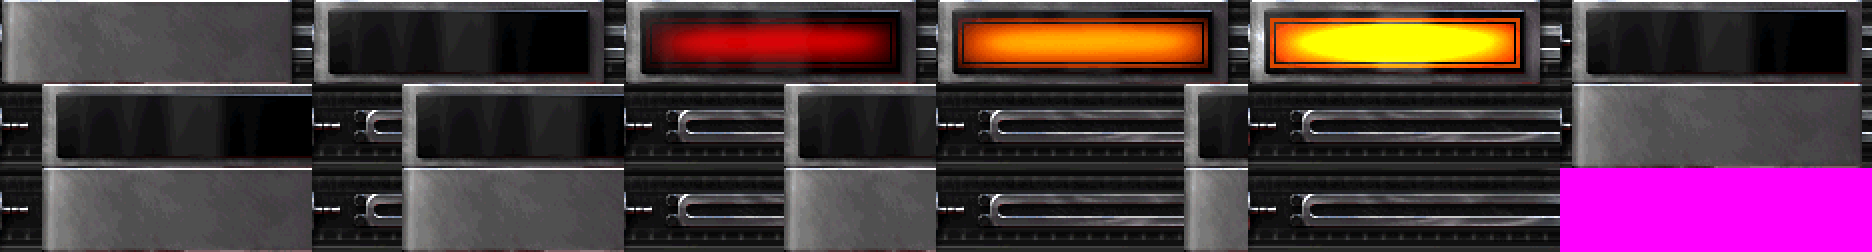
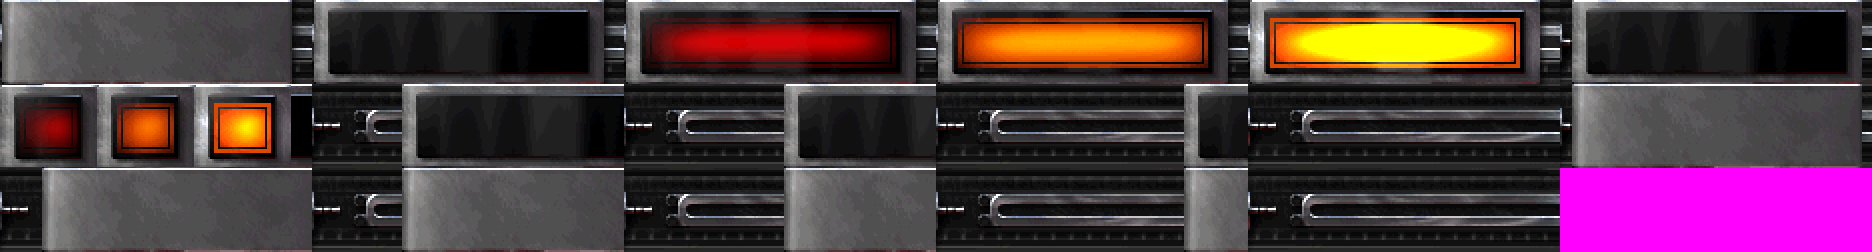
Added Options Interface

Changed region(s): [[0.0, 0.3333, 0.1549, 0.6667]]

diff --git a/Order_227/Motor2D/UserInterface.cpp b/Order_227/Motor2D/UserInterface.cpp
@@ -98,6 +98,8 @@ bool User_Interface::Start()
 	Unit_Panels_tex = myApp->tex->Load("ui/Unit_Costs_Panel.png");
 	InGame_Label_tex= myApp->tex->Load("ui/In_Game_Labels.png");
 	Buff_tex = myApp->tex->Load("ui/Buff_Texture.png");
+	Options_tex = myApp->tex->Load("ui/Options_Text.png");
+	Volume_Slides = myApp->tex->Load("ui/VolumeBars_Tex.png");
 
 	//Debug Elements
 	fpsText = CreateText({ 10, 10 }, "0", font_id::DEFAULT, { 255, 255, 0, 255 });
@@ -111,6 +113,12 @@ bool User_Interface::Start()
 	TempButtonRect[1] = { 626,0,290,84 };
 	TempButtonRect[2] = { 938,0,290,84 };
 	TempButtonRect[3] = {1250,0,290,84 };
+
+	SDL_Rect mini_TempButtonRect[4];
+	mini_TempButtonRect[0] = { 0,85,97,82 };
+	mini_TempButtonRect[1] = { 0,85,97,82 };
+	mini_TempButtonRect[2] = { 97,85,97,82 };
+	mini_TempButtonRect[3] = { 194,85,97,82 };
 
 	SDL_Rect Pause_Button[4];
 	Pause_Button[0] = { 0,0,168,42 };
@@ -194,6 +202,8 @@ bool User_Interface::Start()
 	pauseMenuPanel = CreateImage(fPoint(width / 2, height / 2-100), SDL_Rect({ 0,0,185,355 }), pauseMenuPanel_Tex,true);
 	ReturnMainMenu = CreateVoidBox(QuitGame, fPoint(width / 2, height / 2), Pause_Button, PauseButton_text, pauseMenuPanel);
 	ReturnMainMenu_Label = CreateText(fPoint(width / 2, height / 2), "EXIT", font_id::MOLOT,White,false,pauseMenuPanel);
+	Options_Pause_button = CreateVoidBox(OptionsOpen, fPoint(width / 2, height / 2.3), Pause_Button, PauseButton_text, pauseMenuPanel);
+	Options_Pause_Label = CreateText(fPoint(width / 2, height / 2.3), "Options", font_id::MOLOT, White, false, pauseMenuPanel);
 	pauseMenuPanel->Deactivate();
 	frameSelector = CreateImage(fPoint(width / 11, height - 140), SDL_Rect({ 0,0,134,38 }), selectorinGame_Tex);
 
@@ -247,14 +257,73 @@ bool User_Interface::Start()
 	StartGame_Button = CreateVoidBox(StartGame,fPoint(width/2,height/1.8),TempButtonRect,StartGame_text,nullptr,Screen_Type::SCREEN_MAINMENU);
 	StartGame_Label = CreateText(fPoint(width / 2, height / 1.8), "START GAME", font_id::MOLOT,White,false,StartGame_Button,1.0f,nullptr, Screen_Type::SCREEN_MAINMENU);
 
-	ExitGame_Button = CreateVoidBox(CloseGame, fPoint(width / 2, height / 1.2), TempButtonRect, StartGame_text, nullptr, Screen_Type::SCREEN_MAINMENU);
-	ExitGame_Label = CreateText(fPoint(width / 2, height / 1.2), "QUIT GAME", font_id::MOLOT, White, false, ExitGame_Button, 1.0f, nullptr, Screen_Type::SCREEN_MAINMENU);
+	ExitGame_Button = CreateVoidBox(CloseGame, fPoint(width / 2, height / 1.15), TempButtonRect, StartGame_text, nullptr, Screen_Type::SCREEN_MAINMENU);
+	ExitGame_Label = CreateText(fPoint(width / 2, height / 1.15), "QUIT GAME", font_id::MOLOT, White, false, ExitGame_Button, 1.0f, nullptr, Screen_Type::SCREEN_MAINMENU);
+
+	OptionsGame_Button = CreateVoidBox(OptionsOpen, fPoint(width / 2, height / 1.4), TempButtonRect, StartGame_text, nullptr, Screen_Type::SCREEN_MAINMENU);
+	OptionsGame_Label = CreateText(fPoint(width / 2, height / 1.4), "OPTIONS", font_id::MOLOT, White, false, OptionsGame_Button, 1.0f, nullptr, Screen_Type::SCREEN_MAINMENU);
 
 	Minimap_Display = new  MiniMap_UI(ui_type::NONE);
 
-	
+
 	AddElement(Minimap_Display);
 	InGame_Elements.push_back(Minimap_Display);
+
+
+	OptionsPanel = CreateImage(fPoint(width / 2, height / 2), SDL_Rect({ 0,0,906,657 }), Options_tex,false,nullptr,nullptr,Screen_Type::SCREEN_OPTIONS);
+
+	VolumeSFX_Slide = CreateImage(fPoint(width / 2, height / 2.2), SDL_Rect({ 0,0,796,80 }), Volume_Slides, false,OptionsPanel, nullptr, Screen_Type::SCREEN_OPTIONS);
+	VolumeMusic_Slide = CreateImage(fPoint(width / 2, height / 3.5), SDL_Rect({ 0,0,796,80 }), Volume_Slides, false, OptionsPanel, nullptr, Screen_Type::SCREEN_OPTIONS);
+	SetHotkeys_Button = CreateVoidBox(Hotkeys_Options, fPoint(width / 2, height / 1.5), TempButtonRect, StartGame_text, OptionsPanel, Screen_Type::SCREEN_OPTIONS);
+	SetHotkeys_Label = CreateText(fPoint(width / 2, height / 1.5), "CONTROLS", font_id::MOLOT, White, false, SetHotkeys_Button,1.0f, nullptr, Screen_Type::SCREEN_OPTIONS);
+
+	Hotkey_Conscript = CreateVoidBox(Hotkeys_Options, fPoint(width / 2.6, height / 3.5), mini_TempButtonRect, StartGame_text, nullptr, Screen_Type::SCREEN_OPTIONS);
+	Hotkey_Conscript_Label = CreateText(fPoint(width / 2.6, height / 3.5), "1", font_id::MOLOT, White, false, Hotkey_Conscript, 1.0f, nullptr, Screen_Type::SCREEN_OPTIONS);
+	Conscript_Label = CreateText(fPoint(width / 3.5, height / 3.5), "Create Consrcipt", font_id::MOLOT, White, false, Hotkey_Conscript, 0.7f, nullptr, Screen_Type::SCREEN_OPTIONS);
+	Hotkey_Conscript->Deactivate();
+
+	Hotkey_Flak = CreateVoidBox(Hotkeys_Options, fPoint(width / 2.6, height / 2.3), mini_TempButtonRect, StartGame_text, nullptr, Screen_Type::SCREEN_OPTIONS);
+	Hotkey_Flak_Label = CreateText(fPoint(width / 2.6, height / 2.3), "2", font_id::MOLOT, White, false, Hotkey_Flak, 1.0f, nullptr, Screen_Type::SCREEN_OPTIONS);
+	Flak_Label = CreateText(fPoint(width / 3.5, height / 2.3), "Create Flak", font_id::MOLOT, White, false, Hotkey_Flak, 0.7f, nullptr, Screen_Type::SCREEN_OPTIONS);
+	Hotkey_Flak->Deactivate();
+
+	Hotkey_Desolator = CreateVoidBox(Hotkeys_Options, fPoint(width / 2.6, height / 1.7), mini_TempButtonRect, StartGame_text, nullptr, Screen_Type::SCREEN_OPTIONS);
+	Hotkey_Desolator_Label = CreateText(fPoint(width / 2.6, height / 1.7), "3", font_id::MOLOT, White, false, Hotkey_Desolator, 1.0f, nullptr, Screen_Type::SCREEN_OPTIONS);
+	Desolator_Label = CreateText(fPoint(width / 3.5, height / 1.7), "Create Desolator", font_id::MOLOT, White, false, Hotkey_Desolator, 0.7f, nullptr, Screen_Type::SCREEN_OPTIONS);
+	Hotkey_Desolator->Deactivate();
+
+	Hotkey_Chrono = CreateVoidBox(Hotkeys_Options, fPoint(width / 2.6, height / 1.35), mini_TempButtonRect, StartGame_text, nullptr, Screen_Type::SCREEN_OPTIONS);
+	Hotkey_Chrono_Label = CreateText(fPoint(width / 2.6, height / 1.35), "4", font_id::MOLOT, White, false, Hotkey_Chrono, 1.0f, nullptr, Screen_Type::SCREEN_OPTIONS);
+	Chrono_Label = CreateText(fPoint(width / 3.5, height / 1.35), "Create Chrono", font_id::MOLOT, White, false, Hotkey_Chrono, 0.7f, nullptr, Screen_Type::SCREEN_OPTIONS);
+	Hotkey_Chrono->Deactivate();
+
+	Hotkey_Sniper = CreateVoidBox(Hotkeys_Options, fPoint(width / 1.5, height / 3.5), mini_TempButtonRect, StartGame_text, nullptr, Screen_Type::SCREEN_OPTIONS);
+	Hotkey_Sniper_Label = CreateText(fPoint(width / 1.5, height / 3.5), "5", font_id::MOLOT, White, false, Hotkey_Sniper, 1.0f, nullptr, Screen_Type::SCREEN_OPTIONS);
+	Sniper_Label = CreateText(fPoint(width / 1.7, height / 3.5), "Create Sn iper", font_id::MOLOT, White, false, Hotkey_Sniper, 0.7f, nullptr, Screen_Type::SCREEN_OPTIONS);
+	Hotkey_Sniper->Deactivate();
+
+	Hotkey_Up = CreateVoidBox(Hotkeys_Options, fPoint(width / 1.5, height / 2.05), mini_TempButtonRect, StartGame_text, nullptr, Screen_Type::SCREEN_OPTIONS);
+	Hotkey_Up_Label = CreateText(fPoint(width / 1.5, height / 2.05), "W", font_id::MOLOT, White, false, Hotkey_Up, 1.0f, nullptr, Screen_Type::SCREEN_OPTIONS);
+	Hotkey_Up->Deactivate();
+
+	Hotkey_Down = CreateVoidBox(Hotkeys_Options, fPoint(width / 1.5, height / 1.6), mini_TempButtonRect, StartGame_text, nullptr, Screen_Type::SCREEN_OPTIONS);
+	Hotkey_Down_Label = CreateText(fPoint(width / 1.5, height / 1.6), "S", font_id::MOLOT, White, false, Hotkey_Down, 1.0f, nullptr, Screen_Type::SCREEN_OPTIONS);
+	Hotkey_Down->Deactivate();
+
+	Hotkey_Left = CreateVoidBox(Hotkeys_Options, fPoint(width / 1.72, height / 1.6), mini_TempButtonRect, StartGame_text, nullptr, Screen_Type::SCREEN_OPTIONS);
+	Hotkey_Left_Label = CreateText(fPoint(width / 1.72, height / 1.6), "A", font_id::MOLOT, White, false, Hotkey_Left, 1.0f, nullptr, Screen_Type::SCREEN_OPTIONS);
+	Hotkey_Left->Deactivate();
+
+	Hotkey_Right = CreateVoidBox(Hotkeys_Options, fPoint(width / 1.32, height / 1.6), mini_TempButtonRect, StartGame_text, nullptr, Screen_Type::SCREEN_OPTIONS);
+	Hotkey_Right_Label = CreateText(fPoint(width / 1.32, height / 1.6), "D", font_id::MOLOT, White, false, Hotkey_Right, 1.0f, nullptr, Screen_Type::SCREEN_OPTIONS);
+	Hotkey_Right->Deactivate();
+
+	ReturnOptions_Button = CreateVoidBox(QuitOptions, fPoint(width / 1.9, height / 1.135), TempButtonRect, StartGame_text,OptionsPanel, Screen_Type::SCREEN_OPTIONS);
+	ReturnOptions_Label = CreateText(fPoint(width / 2, height / 1.15), "RETURN", font_id::MOLOT, White, false, ReturnOptions_Button,0.7f, nullptr, Screen_Type::SCREEN_OPTIONS);
+	ReturnOptions_Button->ChangeSize(0.7f);
+
+	OptionsPanel->Deactivate();
+
 
 	Mouse_UI = CreateMouse(mouse_tex);
 

diff --git a/Order_227/Motor2D/UserInterface.h b/Order_227/Motor2D/UserInterface.h
@@ -36,6 +36,7 @@ enum class Screen_Type {
 	SCREEN_MAINMENU,
 	SCREEN_INGAME,
 	SCREEN_PAUSE,
+	SCREEN_OPTIONS,
 	SCREEN_WIN,
 	SCREEN_LOSE,
 	SCREEN_MAX
@@ -79,6 +80,7 @@ public:
 	void DestroyElement(UI_Element* element);
 	void ActivateScreen(std::list<UI_Element*> list);
 	void DeactivateScreen(std::list<UI_Element*> list);
+	void SetUp_Hotkey_Icons() {};
 
 	Animation loadAnim();
 
@@ -136,15 +138,22 @@ public:
 	Buff_Box* Money2_Buff = nullptr;
 	Buff_Box* Mone3_Buff = nullptr;
 
-
-
+	Void_Box* SetHotkeys_Button = nullptr;
+	Text* SetHotkeys_Label = nullptr;
+	Image* OptionsPanel = nullptr;
 	Image* pauseMenuPanel = nullptr;
 	Text* Moneytext = nullptr;
 	Image* MainMenuTemp_Image = nullptr;
 	Void_Box* StartGame_Button = nullptr;
 	Text* StartGame_Label = nullptr;
+	Void_Box* OptionsGame_Button = nullptr;
+	Text* OptionsGame_Label = nullptr;
 	Void_Box* ExitGame_Button = nullptr;
 	Text* ExitGame_Label = nullptr;
+	Void_Box* ReturnOptions_Button = nullptr;
+	Text* ReturnOptions_Label = nullptr;
+	Image* VolumeSFX_Slide = nullptr;
+	Image* VolumeMusic_Slide = nullptr;
 
 	Text* Damage_Label = nullptr;
 	Text* Health_Label = nullptr;
@@ -164,6 +173,10 @@ public:
 	std::list<Spawn_Box*> SpawnSelectors;
 	std::list<UI_Element*> Main_Menu_Elements;
 	std::list<UI_Element*> InGame_Elements;
+
+
+	Void_Box* Options_Pause_button= nullptr;
+	Text* Options_Pause_Label = nullptr;
 
 	Void_Box* ReturnMainMenu2 = nullptr;
 	Text* ReturnMainMenu_Label2 = nullptr;
@@ -186,7 +199,34 @@ public:
 	Unit_Panel* Money2Buff_Info = nullptr;
 	Unit_Panel* Money3Buff_Info = nullptr;
 
+	Void_Box* Hotkey_Conscript = nullptr;
+	Text* Hotkey_Conscript_Label = nullptr;
+	Text* Conscript_Label = nullptr;
 
+	Void_Box* Hotkey_Flak = nullptr;
+	Text* Hotkey_Flak_Label = nullptr;
+	Text* Flak_Label = nullptr;
+
+	Void_Box* Hotkey_Desolator = nullptr;
+	Text* Hotkey_Desolator_Label = nullptr;
+	Text* Desolator_Label = nullptr;
+
+	Void_Box* Hotkey_Chrono = nullptr;
+	Text* Hotkey_Chrono_Label = nullptr;
+	Text* Chrono_Label = nullptr;
+
+	Void_Box* Hotkey_Sniper = nullptr;
+	Text* Hotkey_Sniper_Label = nullptr;
+	Text* Sniper_Label = nullptr;
+
+	Void_Box* Hotkey_Up = nullptr;
+	Text* Hotkey_Up_Label = nullptr;
+	Void_Box* Hotkey_Down = nullptr;
+	Text* Hotkey_Down_Label = nullptr;
+	Void_Box* Hotkey_Left = nullptr;
+	Text* Hotkey_Left_Label = nullptr;
+	Void_Box* Hotkey_Right = nullptr;
+	Text* Hotkey_Right_Label = nullptr;
 
 
 private:
@@ -226,7 +266,9 @@ private:
 	SDL_Rect Sniper_Selection_Rect[4];
 	SDL_Rect Chrono_Selection_Rect[4];
 	SDL_Rect Desolator_Selection_Rect[4];
-
+	
+	SDL_Texture* Volume_Slides = nullptr;
+	SDL_Texture* Options_tex = nullptr;
 	SDL_Texture* miniMap_tex = nullptr;
 	SDL_Texture* unitsSelection_Tex= nullptr;
 	SDL_Texture* endingImages_Tex = nullptr;

diff --git a/Order_227/Motor2D/ButtonActions.cpp b/Order_227/Motor2D/ButtonActions.cpp
@@ -12,6 +12,7 @@
 #include "GroupManager.h"
 #include "Video.h"
 #include "Audio.h"
+#include "VoidBox.h"
 
 void CreateConscript() {
 	//srand(time(NULL));
@@ -205,4 +206,50 @@ void QuitGame() {
 void CloseGame()
 {
 	myApp->mustShutDown = true;
+}
+
+void OptionsOpen() {
+	myApp->gui->DeactivateScreen(myApp->gui->Main_Menu_Elements);
+	myApp->gui->OptionsPanel->Activate();
+	myApp->gui->SetHotkeys_Button->Activate();
+}
+void QuitOptions() {
+	if (myApp->gui->VolumeSFX_Slide->active == true&&myApp->gui->pauseMenuPanel->active==false) {
+		myApp->gui->OptionsPanel->Deactivate();
+		myApp->gui->ActivateScreen(myApp->gui->Main_Menu_Elements);
+	}
+	else if (myApp->gui->pauseMenuPanel->active == true&&myApp->gui->Hotkey_Conscript->active==false) {
+		myApp->gui->OptionsPanel->Deactivate();
+	}
+	else {
+		myApp->gui->Hotkey_Conscript->Deactivate();
+		myApp->gui->Hotkey_Flak->Deactivate();
+		myApp->gui->Hotkey_Desolator->Deactivate();
+		myApp->gui->Hotkey_Chrono->Deactivate();
+		myApp->gui->Hotkey_Sniper->Deactivate();
+		myApp->gui->OptionsPanel->Activate();
+		myApp->gui->SetHotkeys_Button->Activate();
+		myApp->gui->Hotkey_Up->Deactivate();
+		myApp->gui->Hotkey_Down->Deactivate();
+		myApp->gui->Hotkey_Left->Deactivate();
+		myApp->gui->Hotkey_Right->Deactivate();
+	}
+
+}
+
+void Hotkeys_Options() {
+
+	myApp->gui->VolumeSFX_Slide->active = false;
+	myApp->gui->VolumeMusic_Slide->Deactivate();
+	myApp->gui->SetHotkeys_Button->Deactivate();
+	myApp->gui->Hotkey_Conscript->Activate();
+	myApp->gui->Hotkey_Flak->Activate();
+	myApp->gui->Hotkey_Desolator->Activate();
+	myApp->gui->Hotkey_Chrono->Activate();
+	myApp->gui->Hotkey_Sniper->Activate();
+	myApp->gui->Hotkey_Up->Activate();
+	myApp->gui->Hotkey_Down->Activate();
+	myApp->gui->Hotkey_Left->Activate();
+	myApp->gui->Hotkey_Right->Activate();
+
 }

diff --git a/Order_227/Motor2D/Image.cpp b/Order_227/Motor2D/Image.cpp
@@ -70,17 +70,18 @@ bool Image::Draw()
 {
 	bool ret = true;
 
-	if (lookingRight) {
-		ret = myApp->render->Blit(graphics, (int)position.x, (int)position.y, sprite, SDL_FLIP_NONE, FollowCam,scale);
-	}
-	else {
-		ret = myApp->render->Blit(graphics, (int)position.x, (int)position.y, sprite, SDL_FLIP_HORIZONTAL, FollowCam,scale);
-	}
+		if (lookingRight) {
+			ret = myApp->render->Blit(graphics, (int)position.x, (int)position.y, sprite, SDL_FLIP_NONE, FollowCam, scale);
+		}
+		else {
+			ret = myApp->render->Blit(graphics, (int)position.x, (int)position.y, sprite, SDL_FLIP_HORIZONTAL, FollowCam, scale);
+		}
 
-	for (std::list<UI_Element*>::iterator iter = children.begin(); iter != children.end(); iter = next(iter)) {
-		(*iter)->Draw();
-	}
-
+		for (std::list<UI_Element*>::iterator iter = children.begin(); iter != children.end(); iter = next(iter)) {
+			if((*iter)->active)
+				(*iter)->Draw();
+		}
+	
 	return ret;
 }
 
@@ -181,5 +182,5 @@ bool Image::MouseOnImage() {	// Note: SDL disposes of the following function -> 
 	SDL_Point mousePos;
 	myApp->input->GetMousePosition(mousePos.x, mousePos.y);
 
-	return !(position.y + sprite->h < mousePos.y || position.y > mousePos.y || position.x + sprite->w < mousePos.x || position.x > mousePos.x);
+	return !(position.y + sprite->h*scale < mousePos.y || position.y > mousePos.y || position.x + sprite->w*scale < mousePos.x || position.x > mousePos.x);
 }

diff --git a/Order_227/Motor2D/VoidBox.h b/Order_227/Motor2D/VoidBox.h
@@ -10,6 +10,7 @@ public:
 
 	//Constructor
 	Void_Box(event_function action, fPoint center, SDL_Rect spriteList[4], SDL_Texture* tex, UI_Element* parent = NULL, ui_type type = ui_type::ACTION_BOX);
+	void ChangeSize(float newsize) { scale = newsize; }
 
 protected:
 	//State Entry
@@ -17,6 +18,7 @@ protected:
 
 protected:
 	event_function action;
+
 };
 
 #endif //VOID_BOX_H

diff --git a/Order_227/Motor2D/ButtonActions.h b/Order_227/Motor2D/ButtonActions.h
@@ -15,6 +15,8 @@ void CreateSniper();
 void StartGame();
 void QuitGame();
 void CloseGame();
-
+void OptionsOpen();
+void QuitOptions();
+void Hotkeys_Options();
 
 #endif //_BUTTON_ACTIONS_H_
